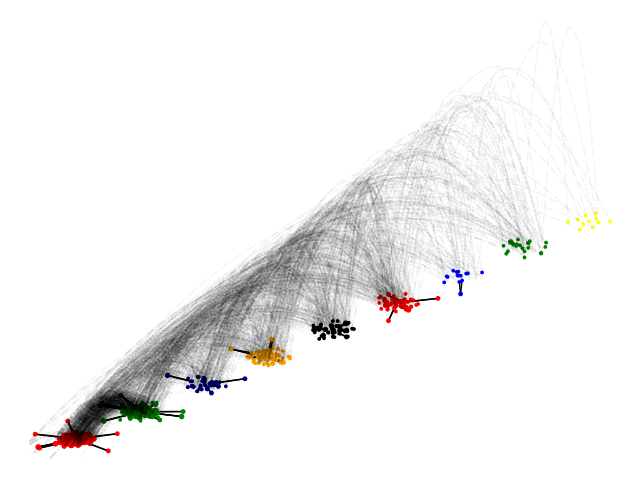
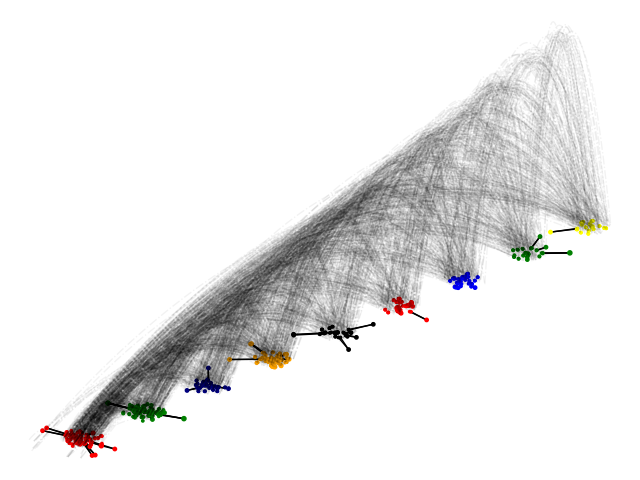
added mc

Changed region(s): [[0.0312, 0.0625, 0.9688, 0.9688], [0.6562, 0.6562, 0.6875, 0.6875]]

diff --git a/py3plex/visualization/multilayer.py b/py3plex/visualization/multilayer.py
@@ -25,7 +25,7 @@ main_figure = plt.figure()
 shape_subplot = main_figure.add_subplot(111)
 import numpy as np
 
-def draw_multilayer_default(network_list, display=True, node_size=10,alphalevel=0.13,rectanglex = 1,rectangley = 1,background_shape="circle",background_color="rainbow",networks_color="rainbow",labels=False,arrowsize=0.5,label_position=1,verbose=False,remove_isolated_nodes=False,axis=None,edge_size=1,node_labels=False,node_font_size=5, scale_by_size=True):
+def draw_multilayer_default(network_list, display=True, node_size=10,alphalevel=0.13,rectanglex = 1,rectangley = 1,background_shape="circle",background_color="rainbow",networks_color="rainbow",labels=False,arrowsize=0.5,label_position=1,verbose=False,remove_isolated_nodes=False,axis=None,edge_size=1,node_labels=False,node_font_size=5, scale_by_size=False):
 
     if background_color == "default":
         

diff --git a/examples/example_animation.py b/examples/example_animation.py
@@ -22,5 +22,7 @@ for p in imrange:
     img = mgimg.imread("{}{}.png".format(folder_tmp_files,p))
     imgplot = plt.imshow(img)
     myimages.append([imgplot])
-my_anim = animation.ArtistAnimation(fig, myimages, interval=1000)
+my_anim = animation.ArtistAnimation(fig, myimages, interval=1000, blit=True)
+
+## upload to gif maker or store as a video
 my_anim.save('../example_images/animation.gif', writer='imagemagick', fps=1)
